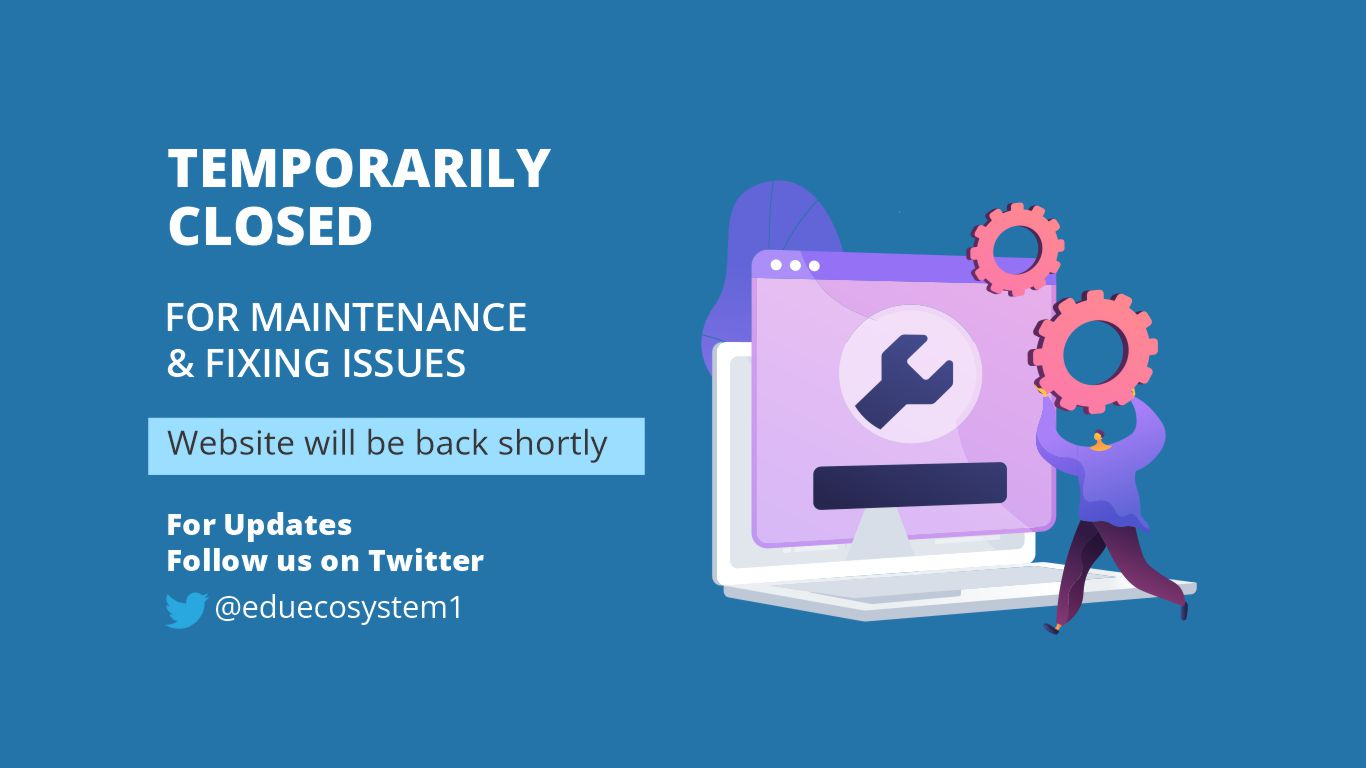
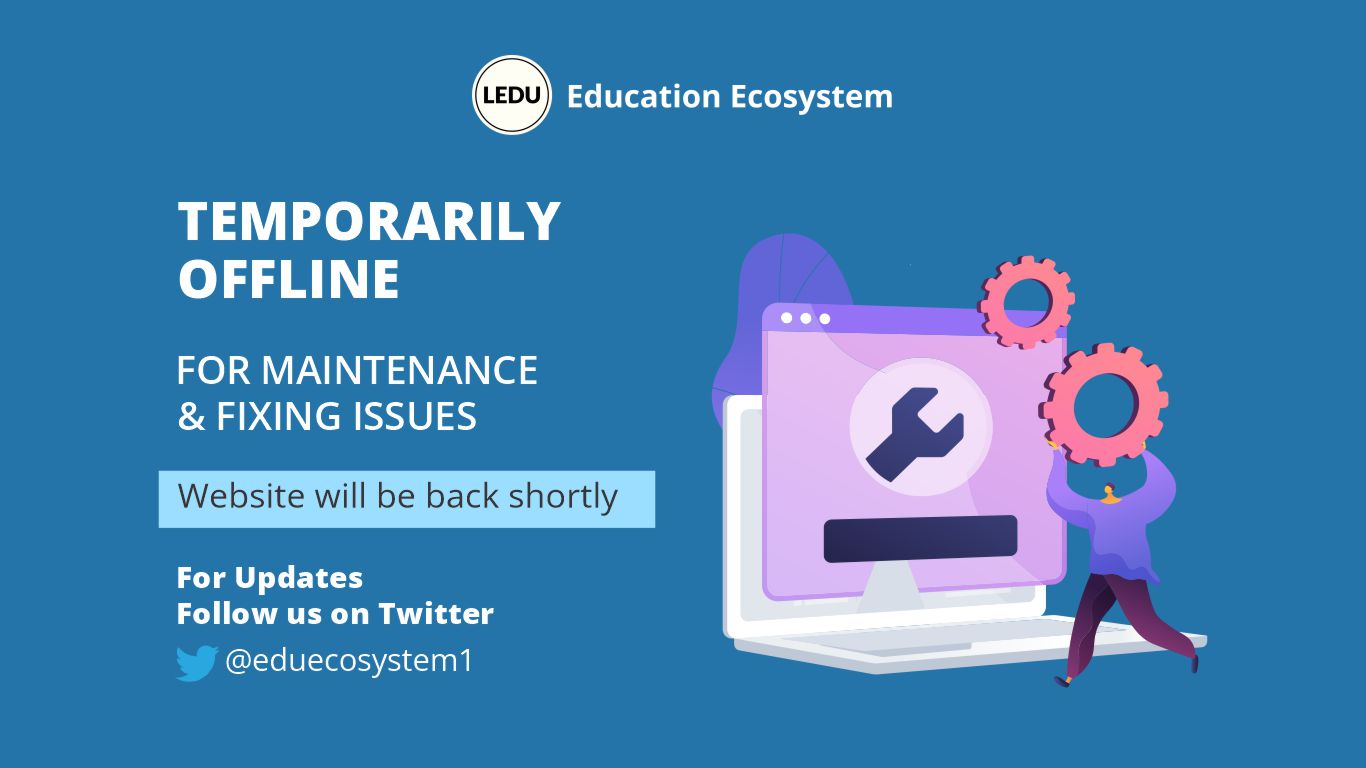
Update image

Changed region(s): [[0.0922, 0.0625, 0.6457, 0.9062], [0.4919, 0.2188, 0.8917, 0.9062]]

diff --git a/index.html b/index.html
@@ -13,14 +13,15 @@
       font-family: "Roboto";
     }
 
-    header {
+    footer {
       display: flex;
-      flex-direction: row-reverse;
+      justify-content: end;
     }
 
     .container {
       width: 100%;
       display: flex;
+      padding: 10px;
       justify-content: center;
       align-items: center;
     }
@@ -28,15 +29,20 @@
 </head>
 
 <body>
-  <header>
-    <span style="padding: 20px"> Twitter: <a href="https://twitter.com/eduecosystem1"
-        target="_blank">@eduecosystem1</a></span>
-  </header>
   <section>
     <div class="container">
       <a href="https://twitter.com/eduecosystem1" target="_blank"> <img src="site-down.jpg" /></a>
     </div>
   </section>
+
+  <footer>
+    
+    <span style="padding: 20px"> For support related questions, send us a message to: <a
+      href="mailto:support@education-ecosystem.com" target="_blank">support@education-ecosystem.com</a></span>
+    <span style="padding: 20px"> Twitter: <a href="https://twitter.com/eduecosystem1"
+        target="_blank">@eduecosystem1</a></span>
+        
+  </footer>
 </body>
 
 </html>
